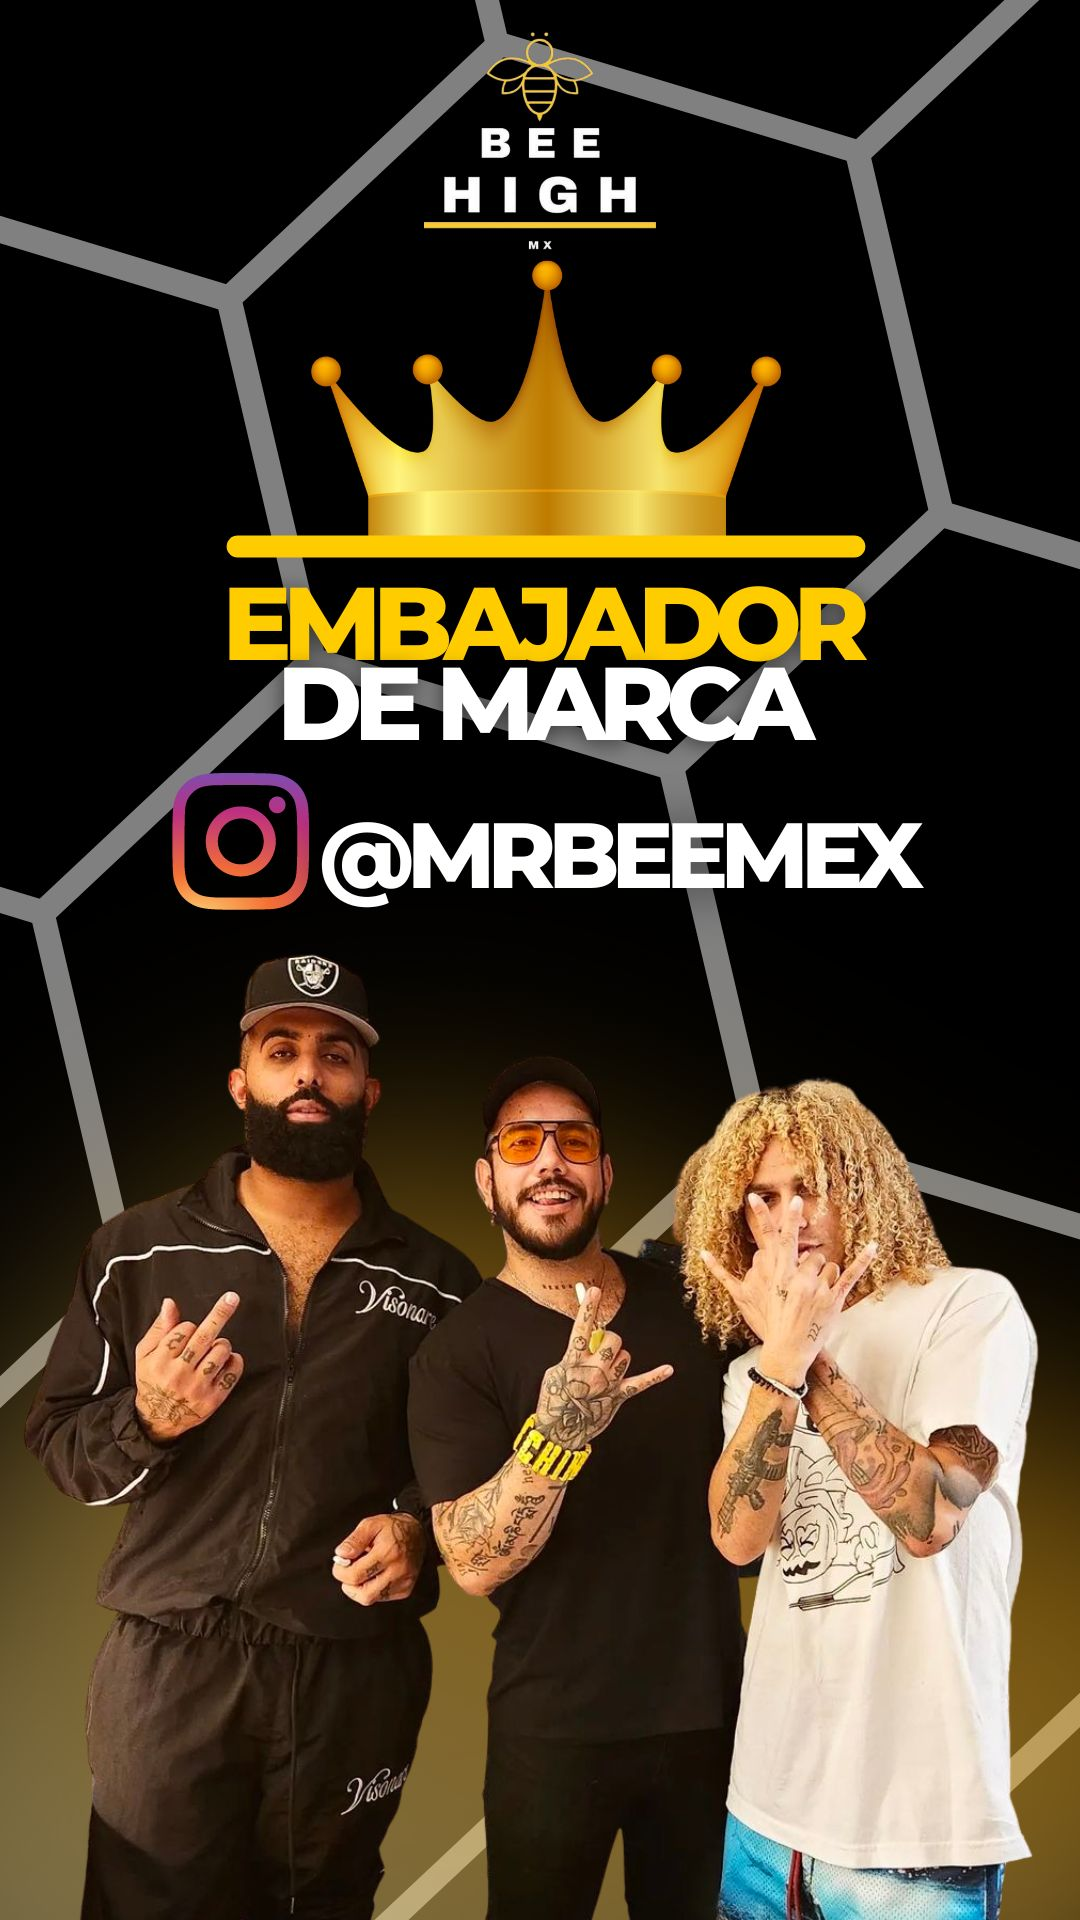
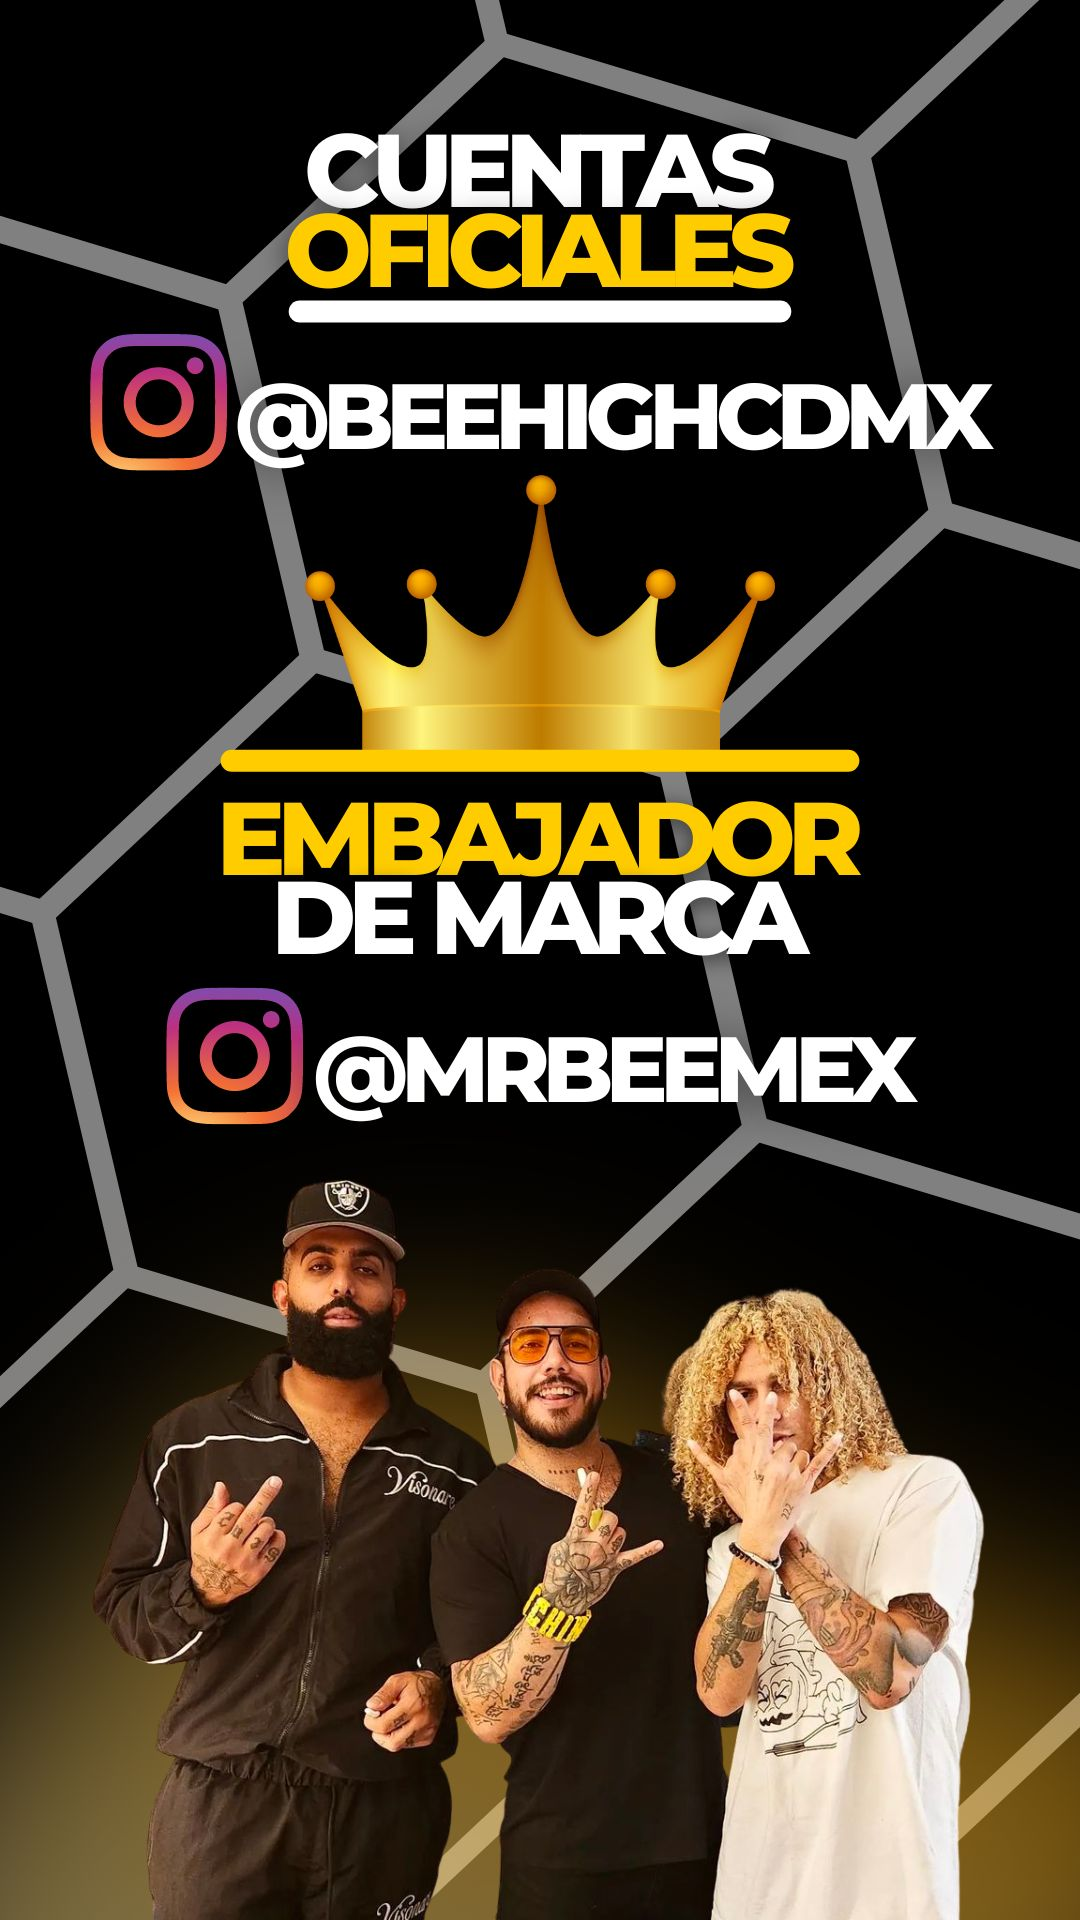
add promos

diff --git a/home.html b/home.html
@@ -47,7 +47,7 @@
                         <span class="texto-blanco">High</span>
                     </h1>
                     <p class="texto-blanco center parrafoInicio">Promos Del <span class="texto-naranja">Día</span></p>
-                    <a href="https://www.instagram.com/mrbeemex/"target="_blank" ><h3 class="texto-naranja">@mrbeemex</h3></a>
+                    <a href="https://www.instagram.com/beehighcdmx/"target="_blank" ><h3 class="texto-naranja">@beehighcdmx</h3></a>
                   <!-- <p class="texto-blanco center">PROMOS DEL DÍA DE HOY NO ACUMULABLES</p> -->
                 </div>
             </header>
